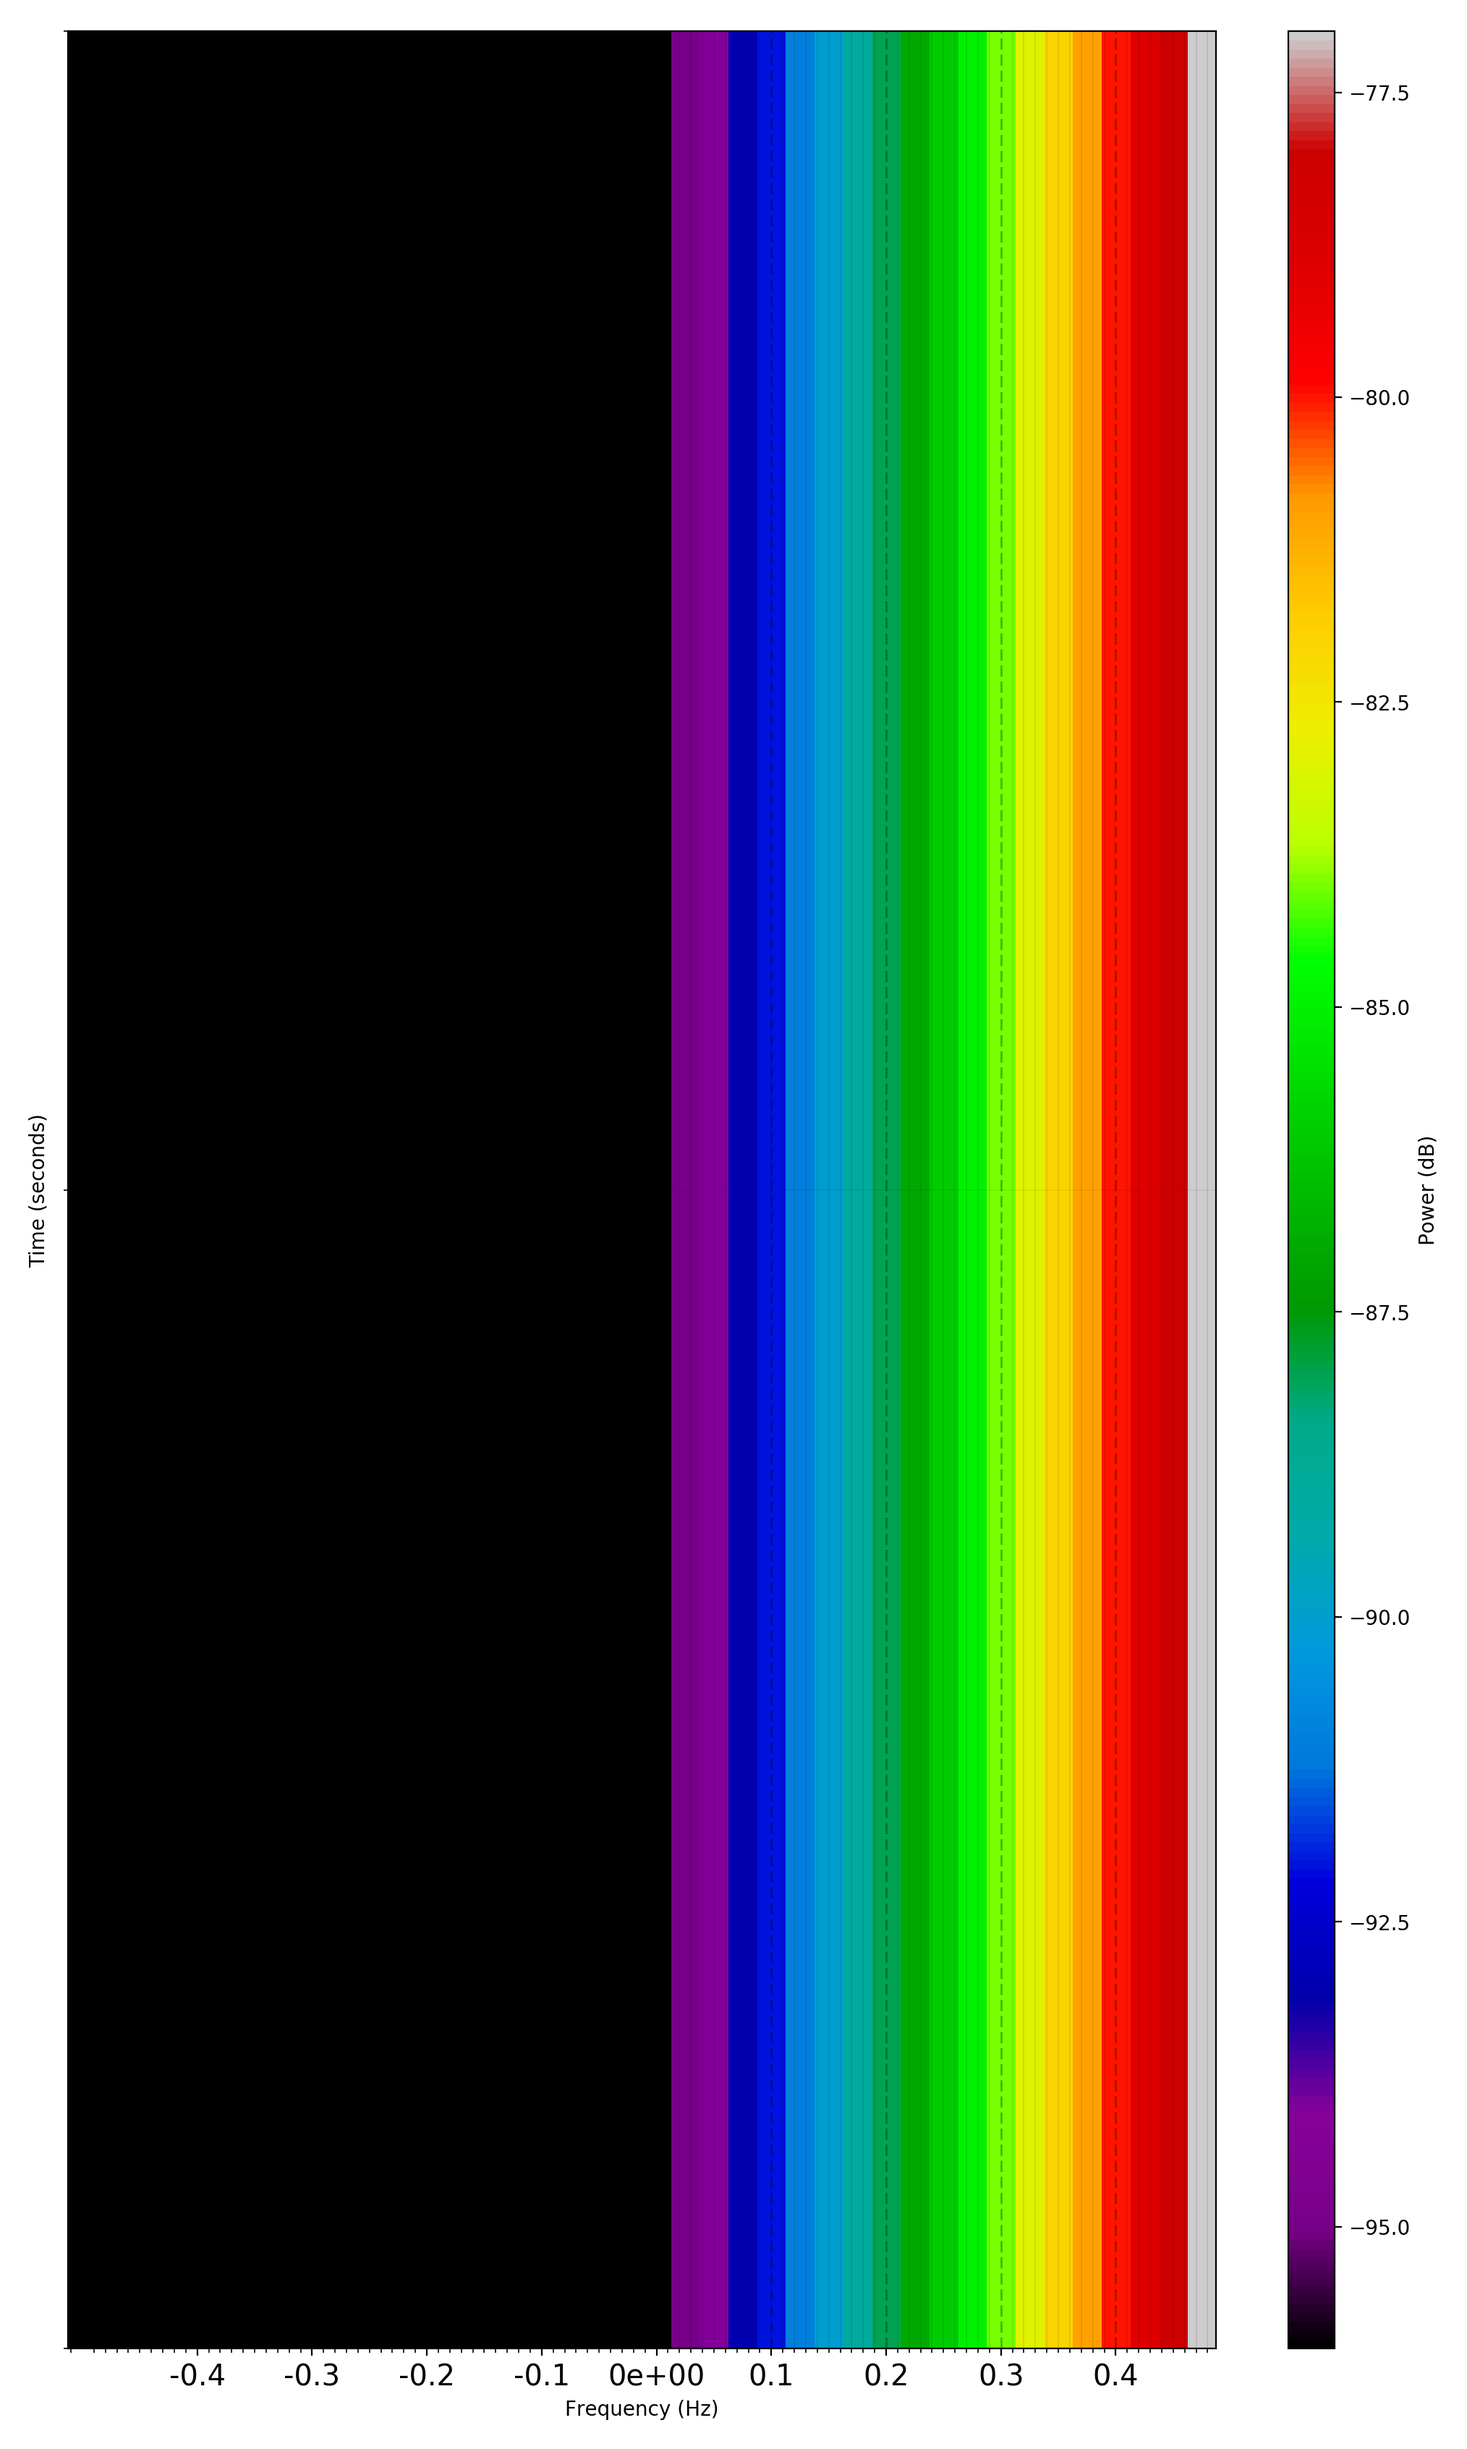
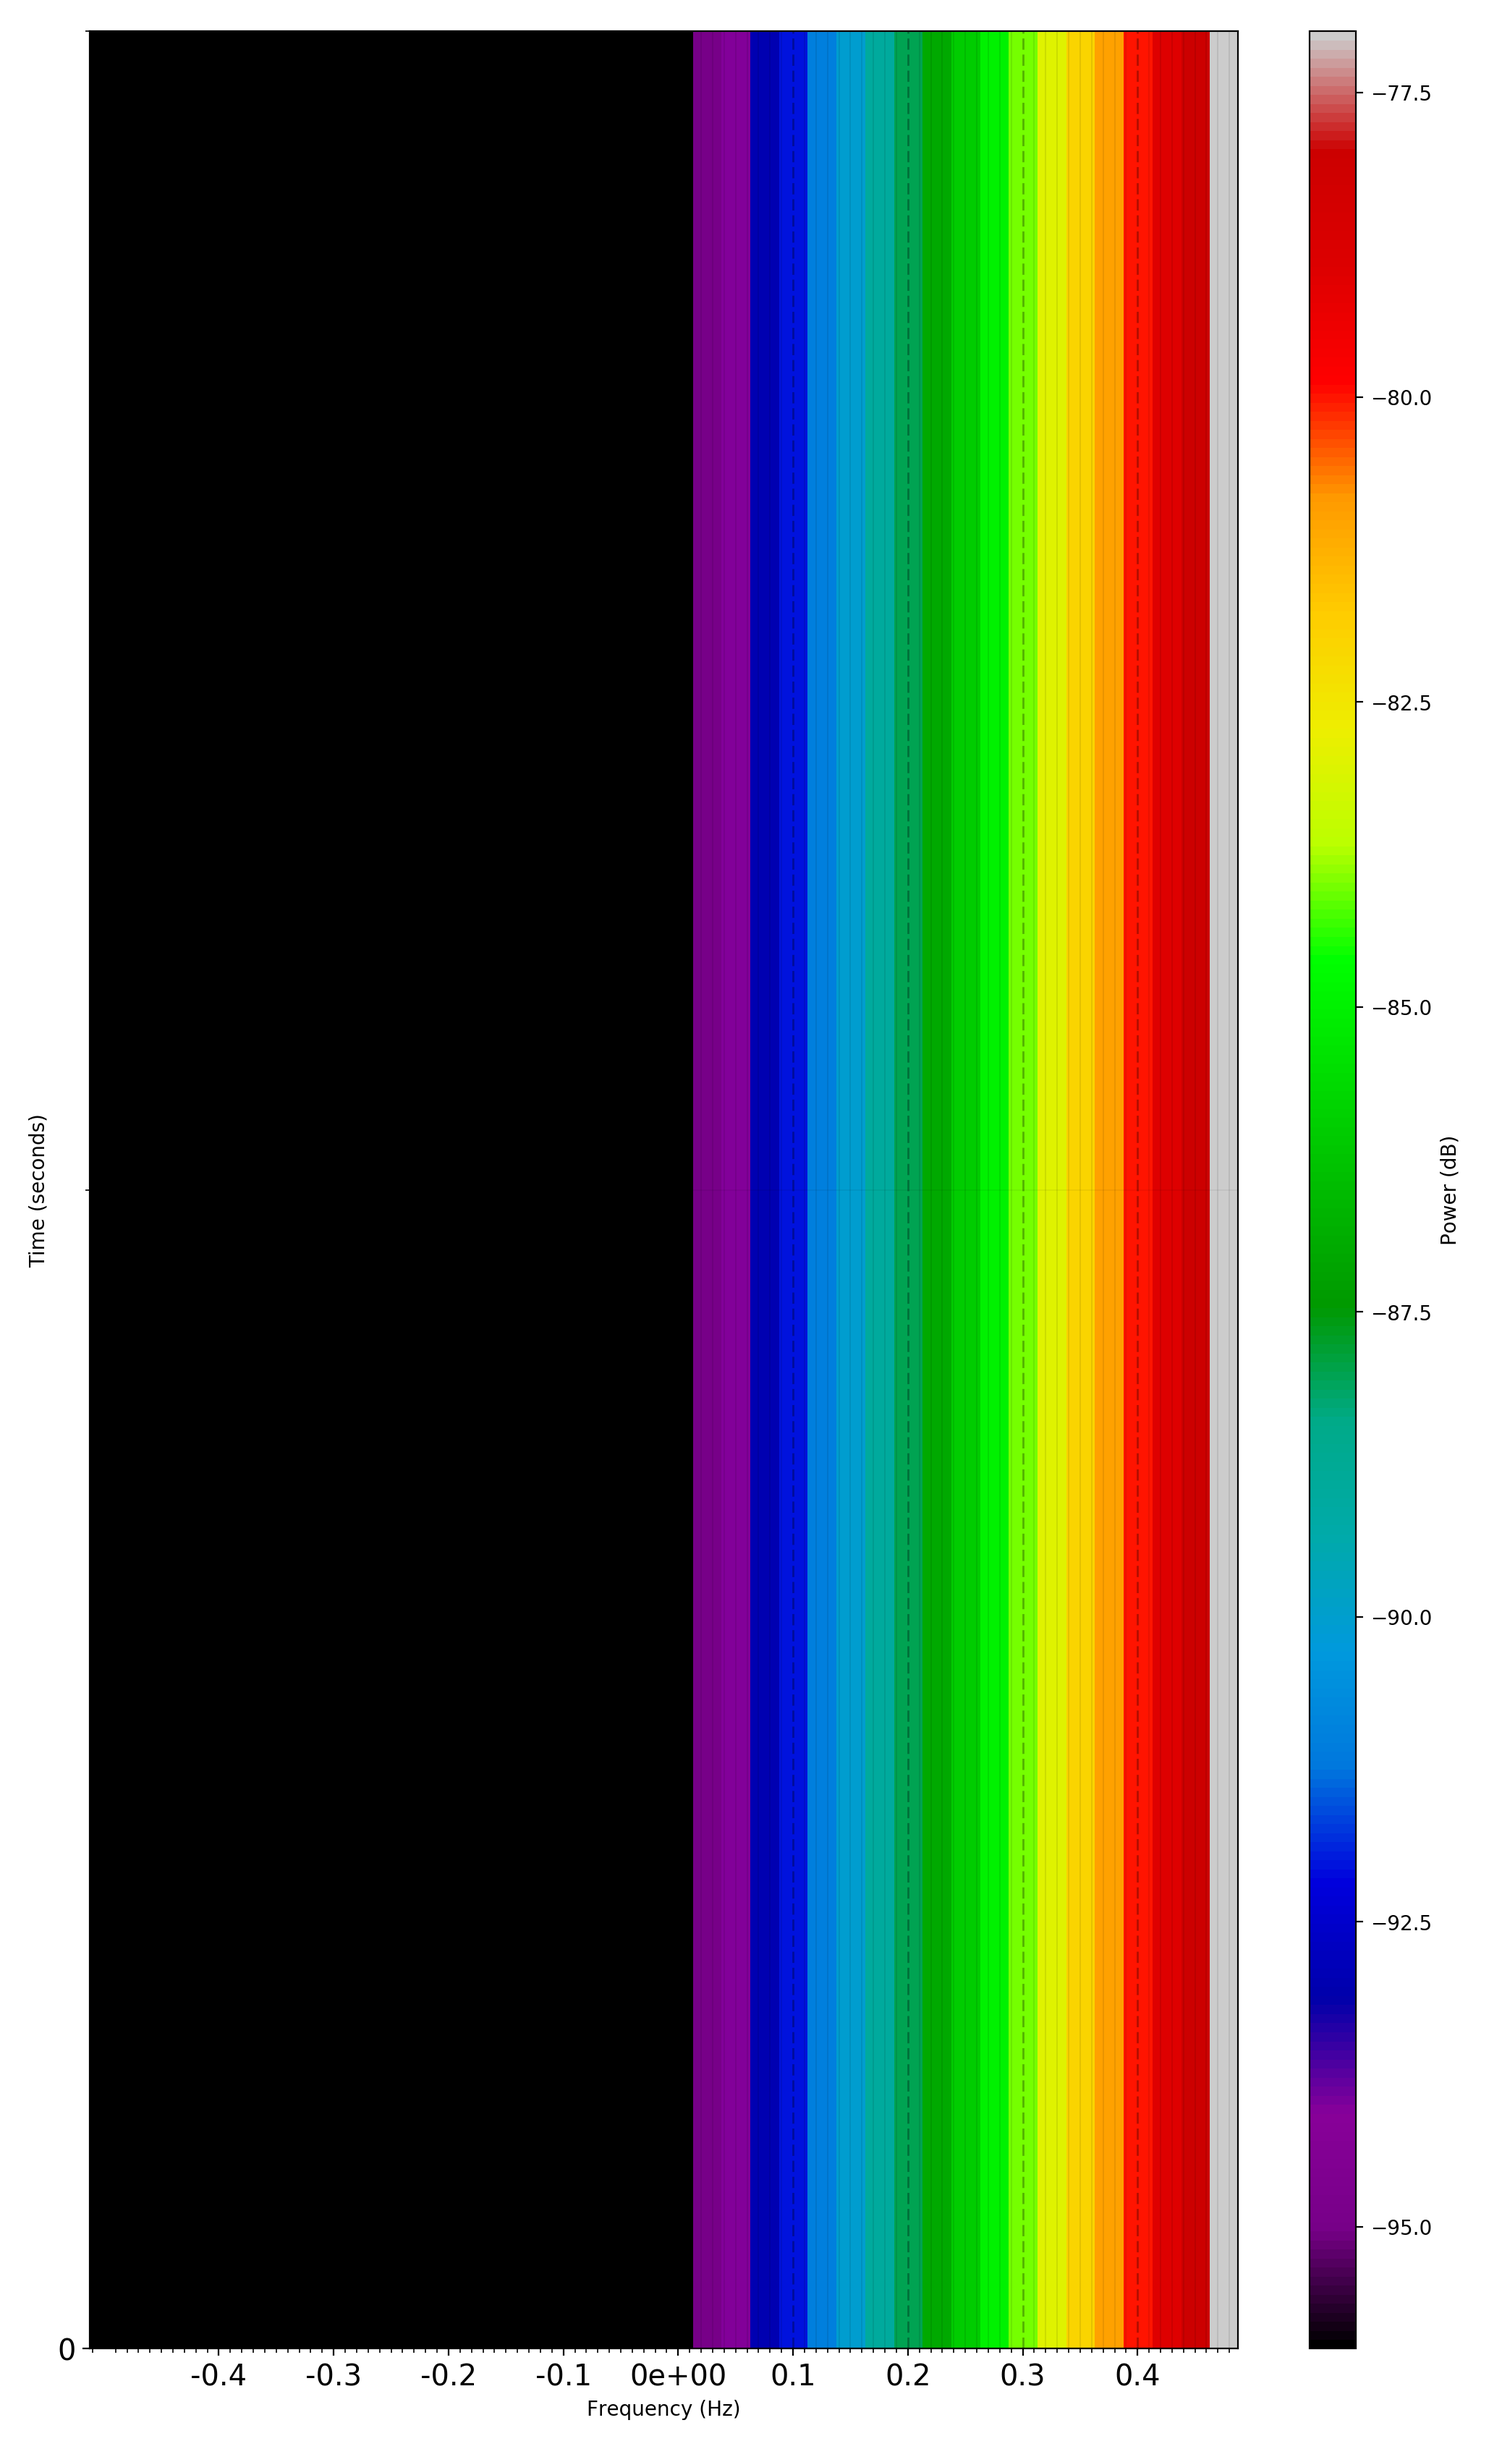
STELLAR-1193 Flip waterfall tick marks (#48)
* fix waterfall plot

* fix yticks

* unneeded

diff --git a/python/plot_waterfall.py b/python/plot_waterfall.py
@@ -89,7 +89,7 @@ def plot_waterfall(arr, samp_rate, center_freq, rps, fft, filename):
     y_ticks = []
     y_tick_labels = []
     j = 0
-    for i in range(len(arr), 0, -n_rows_per_tick):
+    for i in range(0, len(arr), n_rows_per_tick):
         y_ticks.append(i)
         y_tick_labels.append(j * 60)
         j = j + 1
@@ -101,8 +101,8 @@ def plot_waterfall(arr, samp_rate, center_freq, rps, fft, filename):
         ax.set_yticklabels(y_tick_labels, size='x-large')
     ax.grid(b='on', linestyle='dashed', linewidth=1,
             color='#000000', alpha=0.3)
-    minor_locator_y = IndexLocator(10 * rps, len(arr) % (10 * rps))
-    ax.get_yaxis().set_minor_locator(minor_locator_y)
+    ax.get_yaxis().set_minor_locator(IndexLocator(10 * rps, 0))
+    ax.get_yaxis().set_major_locator(IndexLocator(60 * rps, 0))
     ax.get_yaxis().grid(which='minor', color='black', linestyle='-', linewidth=0.05, alpha=0.7)
     ax.get_xaxis().grid(which='minor', color='black', linestyle='-', linewidth=0.1, alpha=0.6)
     ax.get_xaxis().set_minor_locator(AutoMinorLocator(10))
